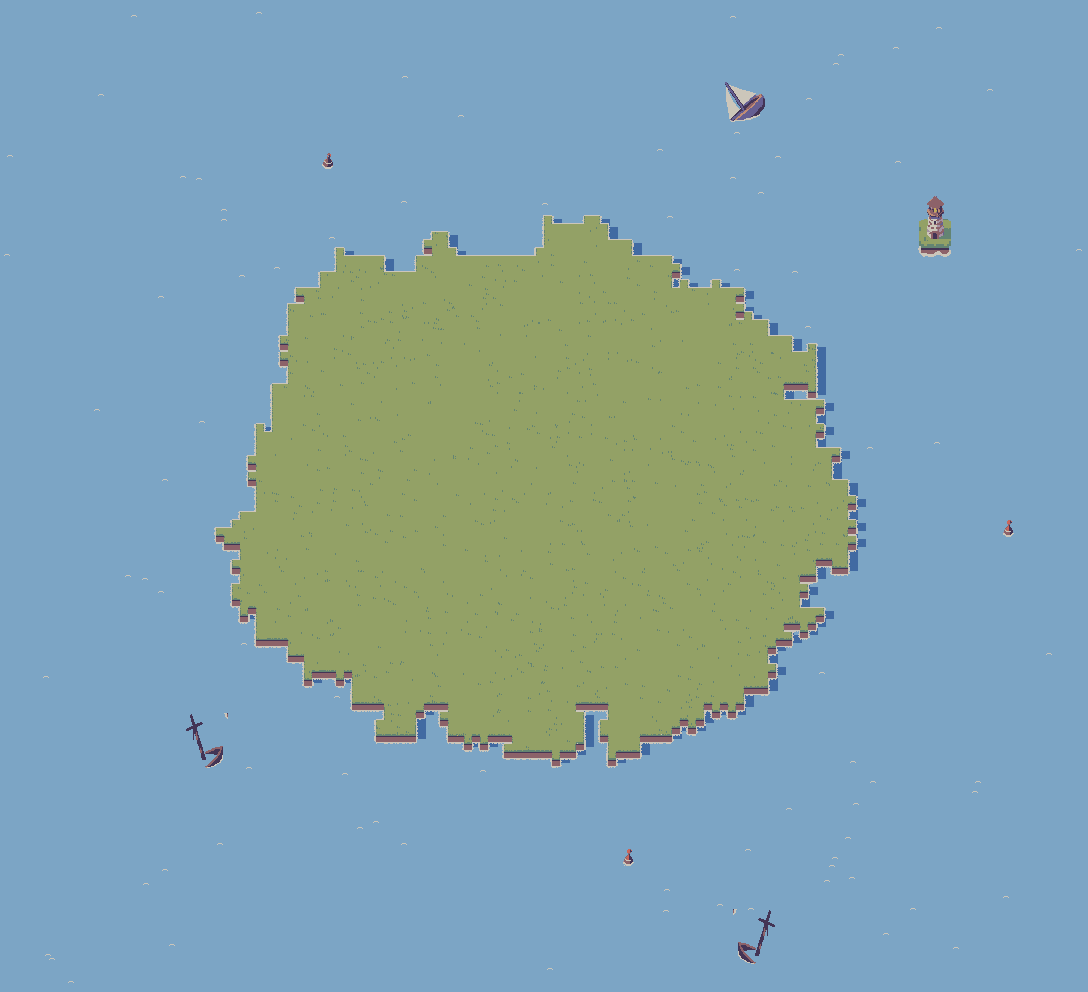
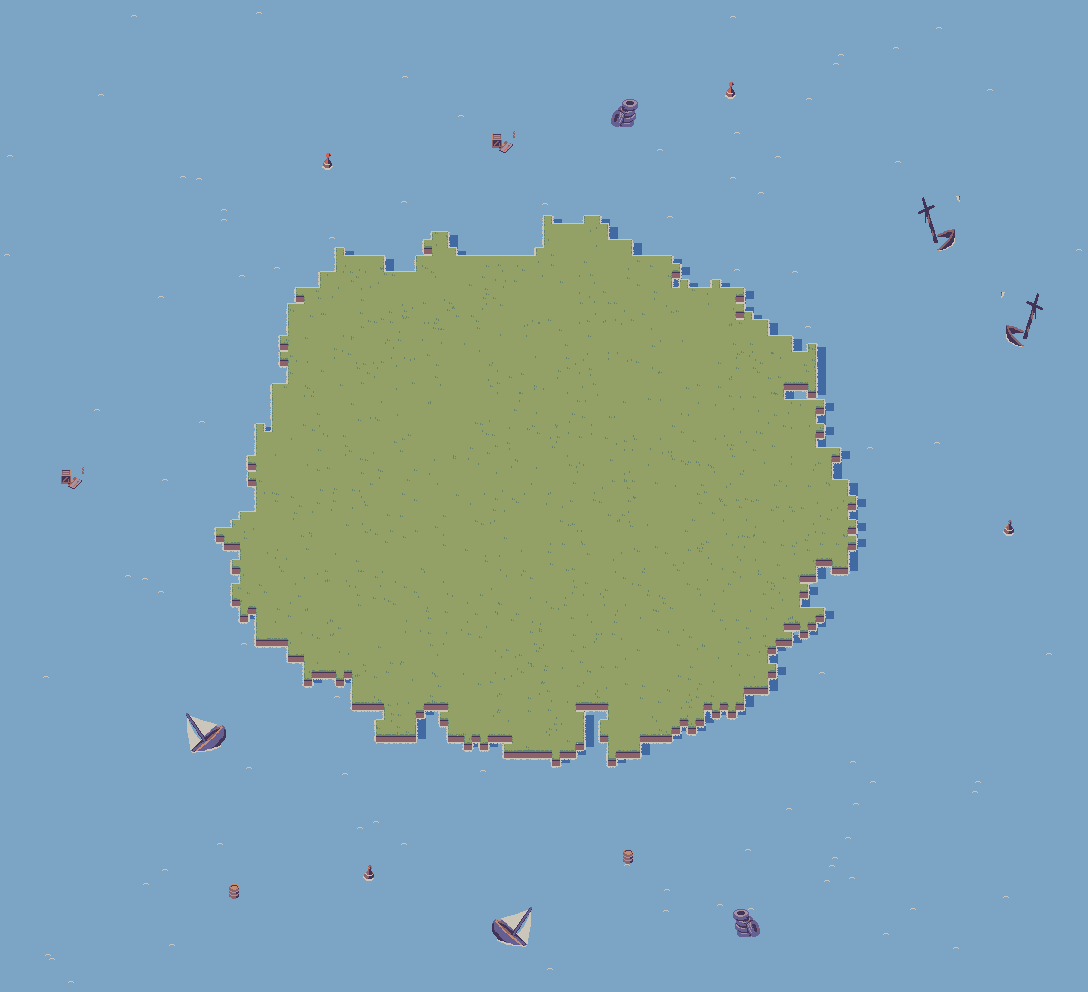
Vila: farol do porto avisa vaga (aceso e girando com cama livre), mais destroços e vida na água
Claude-Session: https://claude.ai/code/session_014SsuPXjmHa644ZcRCYRCBg

diff --git a/vila/tools/estilo_ilha.py b/vila/tools/estilo_ilha.py
@@ -394,6 +394,20 @@ def banca():
     return im
 
 
+def farol():
+    """O farol perto do porto (sprite à parte, não vai no chão): quadro 0 com a lâmpada acesa, 1 apagada.
+    Aceso = tem cama livre (o jogo gira o facho de luz)."""
+    on = peca('farol_ilhota')
+    off = on.copy()
+    px = off.load()
+    for y in range(off.height):
+        for x in range(off.width):
+            r, g, b, a = px[x, y]
+            if a and (r, g, b) in (Y, CR) and y < 20:
+                px[x, y] = LI + (a,) if (r, g, b) == Y else LC + (a,)
+    return folha([on, off], on.width, on.height)
+
+
 # ---------------------------------------------------------------- chão da ilha
 def chao_ilha(rows, seed=3):
     import numpy as np
@@ -487,9 +501,10 @@ def chao_ilha(rows, seed=3):
     out = Image.fromarray(im, 'RGB').convert('RGBA')
     # naufrágios e enfeites na água (só desenho), longe da ilha
     lugares = []
-    for nome in ('farol_ilhota', 'mastro_afundado', 'veleiro_virado', 'boia_1', 'boia_2', 'boia_1', 'mastro_afundado'):
+    for nome in ('mastro_afundado', 'veleiro_virado', 'boia_1', 'boia_2', 'boia_1', 'mastro_afundado',
+                 'barril', 'pneus', 'caixa_e_chapa', 'veleiro_virado', 'barril', 'boia_2', 'pneus', 'caixa_e_chapa'):
         s = peca(nome)
-        if nome == 'mastro_afundado' and lugares.count(nome) == 1:
+        if nome in ('mastro_afundado', 'veleiro_virado', 'pneus') and lugares.count(nome) == 1:
             s = s.transpose(Image.FLIP_LEFT_RIGHT)
         for _ in range(4000):
             x, y = R.randrange(8, W - s.width - 8), R.randrange(8, H - s.height - 8)
@@ -508,7 +523,7 @@ def chao_ilha(rows, seed=3):
 
 # ---------------------------------------------------------------- tudo
 TROCA = {'tree': arvores, 'tree_sombra': sombra_arvore, 'stump': toco, 'rubble': entulho,
-         'fogueira': fogueira, 'bote': bote, 'barco_mascate': barco_mascate, 'banca': banca,
+         'fogueira': fogueira, 'bote': bote, 'barco_mascate': barco_mascate, 'banca': banca, 'farol': farol,
          'hatch': lambda: peca('bunker'), 'moradia_1': lambda: peca('barraca'), 'gate': lambda: peca('pier')}
 MANTER = ('icons', 'light', 'ghost_ok', 'ghost_bad', 'selecao', 'ui_button', 'ui_button_off', 'ui_panel',
           'ground', 'person_sleep')
